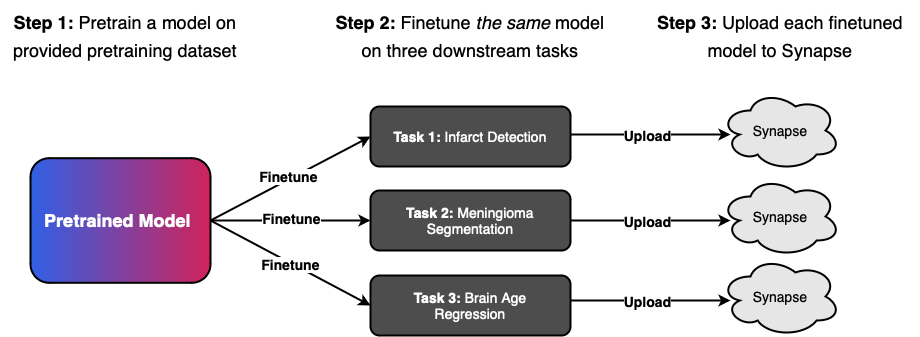
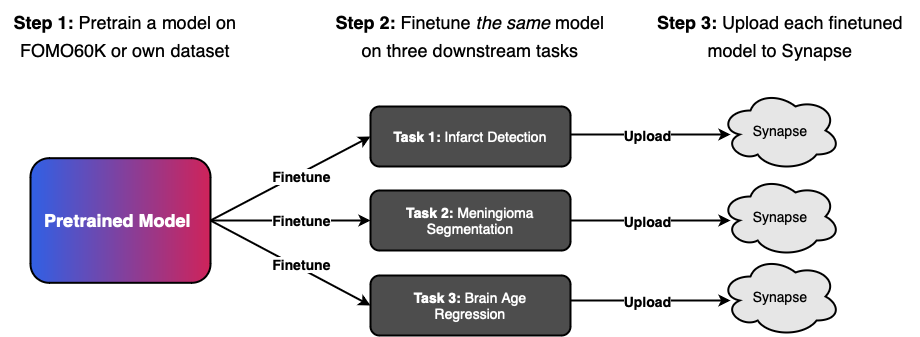
Make two tracks more visible

diff --git a/pages/challenge.html b/pages/challenge.html
@@ -73,12 +73,14 @@ permalink: /challenge
                 </div>
                 <div class="ml-4 pb-4">
                     <h3 class="text-lg font-semibold text-gray-900 mb-2">
-                        Own data allowed for pretraining <span class="bg-yellow-200 text-black p-1 px-2 rounded">
-                            in a separate track
+                        Two submission tracks: <span class="bg-yellow-200 text-black p-1 px-2 rounded">
+                            "Methods" and "Open".
                         </span>
                     </h3>
                     <p class="text-gray-700">
-                        Participants may use their own data for pretraining, but this is restricted to a separate track.
+                        On the "Method" track, participants are restricted to using the provided FOMO60K dataset for
+                        pretraining. On the "Open" track, participants can pretrain on <i>any</i> data, including
+                        private data.
                         <span class="relative text-black"> Participants are
                             <span
                                 class="bg-gradient-to-r from-red-200 to-yellow-200 absolute inset-x-0 top-full h-1 "></span>
@@ -117,6 +119,12 @@ permalink: /challenge
             <h3 class="text-lg font-bold text-gray-900">1 April</h3>
             <p class="text-gray-700">
                 Challenge opens!
+            </p>
+        </div>
+        <div class="mb-6">
+            <h3 class="text-lg font-bold text-gray-900">7 April</h3>
+            <p class="text-gray-700">
+                Code release of pretraining and finetuning code.
             </p>
         </div>
         <div class="mb-6">
@@ -381,14 +389,19 @@ permalink: /challenge
         For all tasks, the challenge will have two tracks:
     <ol class="list-decimal list-inside text-gray-700 mx-4 space-y-4 mb-8">
         <li>
-            <span class="font-bold">No additional data allowed:</span> Challenge participants can only use data
-            provided in the challenge for their submissions.
+            <span class="font-bold">Methods Track: No additional data allowed.</span> Challenge participants can only
+            use
+            the
+            large-scale FOMO60K dataset. This challenge track is intended to provide insights into methods development
+            for pretraining, finetuning and model architectures.
         </li>
         <li>
-            <span class="font-bold">Any data allowed for pretraining:</span> Challenge participants can use any data,
+            <span class="font-bold">Open Track: Any data allowed for pretraining.</span> Challenge participants can use
+            any data,
             including private data, for their submissions. This track includes submissions using any form of
             segmentation maps obtained through manual labor or disease diagnosis information during pretraining. All
-            data used must be specified and properly cited.
+            data used must be specified and properly cited. The track is intended to allow participants to showcase and
+            compare brain MRI Foundation Models.
         </li>
     </ol>
     For both tracks <span class="font-bold">additional is data not allowed for finetuning:</span> The premise

diff --git a/pages/index.html b/pages/index.html
@@ -58,15 +58,14 @@ permalink: /
 </section>
 <section class="max-w-4xl mx-auto px-4 mt-10 mb-8">
     <div class="text-center mb-8"></div>
-    <h2 class="text-3xl font-bold text-gray-900 mb-2">Towards Clinically-Relevant AI:</h2>
-    <h2 class="text-3xl text-gray-900 mb-8">A MICCAI Challenge to Advance Foundation Models for the Clinic</h2>
+    <h2 class="text-3xl font-bold text-gray-900 mb-2">Towards Foundation Models for the Clinic:</h2>
+    <h2 class="text-3xl text-gray-900 mb-8">A MICCAI Challenge to Advance Foundation Models for Brain MRI</h2>
     </div>
     <div class="grid grid-cols-1 md:grid-cols-2 gap-4">
         <!-- Track 1 Box -->
         <div class="bg-gray-800 text-white p-8 rounded-lg shadow-lg aspect-square flex flex-col">
-            <h3 class="text-2xl font-bold mb-4 text-pink-400">Track 1: Method</h3>
-            <h4 class="text-lg mb-3">Pretrain on a <span class="font-semibold">Large-Scale
-                    Dataset</span></h4>
+            <h3 class="text-2xl font-bold mb-4 text-pink-400">Track 1: Methods</h3>
+            <h4 class="text-lg mb-3">Pretrain on <span class="font-semibold">FOMO60K.</span></h4>
             <p class="mt-auto mb-4">
                 Train a model on <span class="font-medium">FOMO60K</span> a large-scale dataset which includes
                 artifacts
@@ -81,7 +80,7 @@ permalink: /
         <!-- Track 2 Box -->
         <div class="bg-gray-800 text-white p-8 rounded-lg shadow-lg aspect-square flex flex-col">
             <h3 class="text-2xl font-bold mb-4 text-pink-400">Track 2: Open</h3>
-            <h4 class="text-lg mb-3">Pretrain on <span class="font-semibold">Any Data</span></h4>
+            <h4 class="text-lg mb-3">Pretrain on <span class="font-semibold">Any Data.</span></h4>
             <p class="mt-auto mb-4">
                 Train a foundation model on any combination of data (both public or private) and showcase your
                 foundation model with no restrictions.
